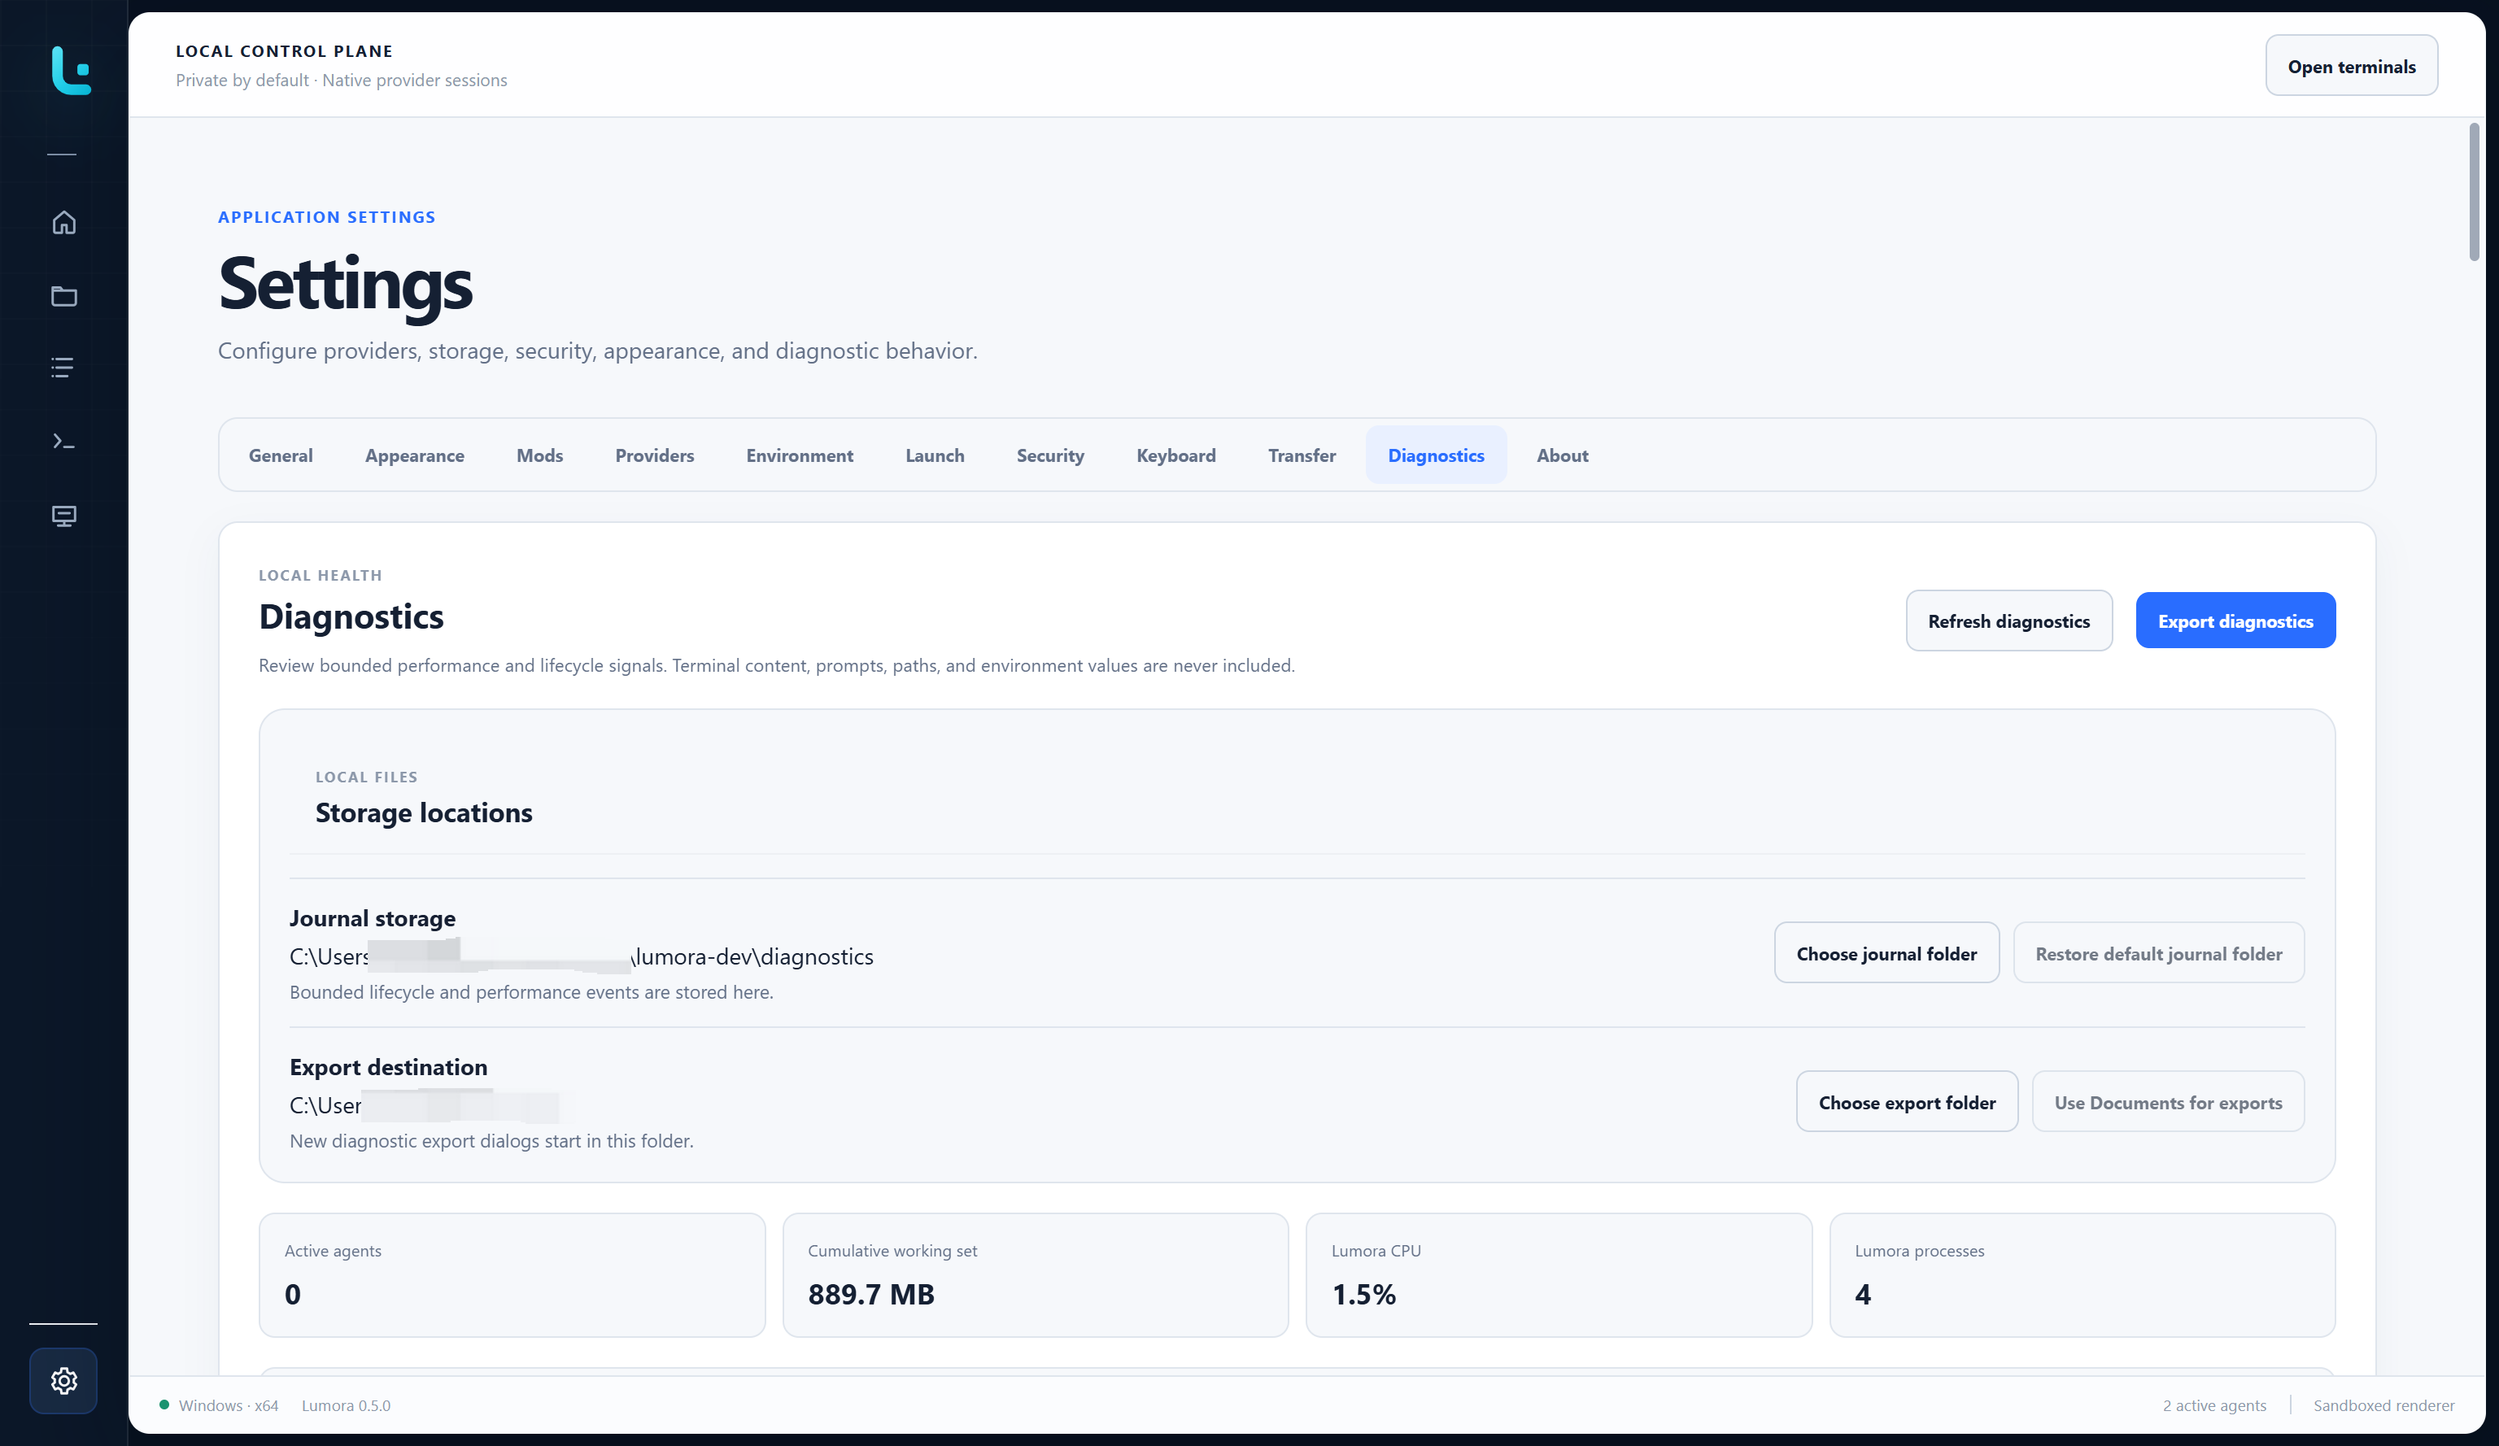
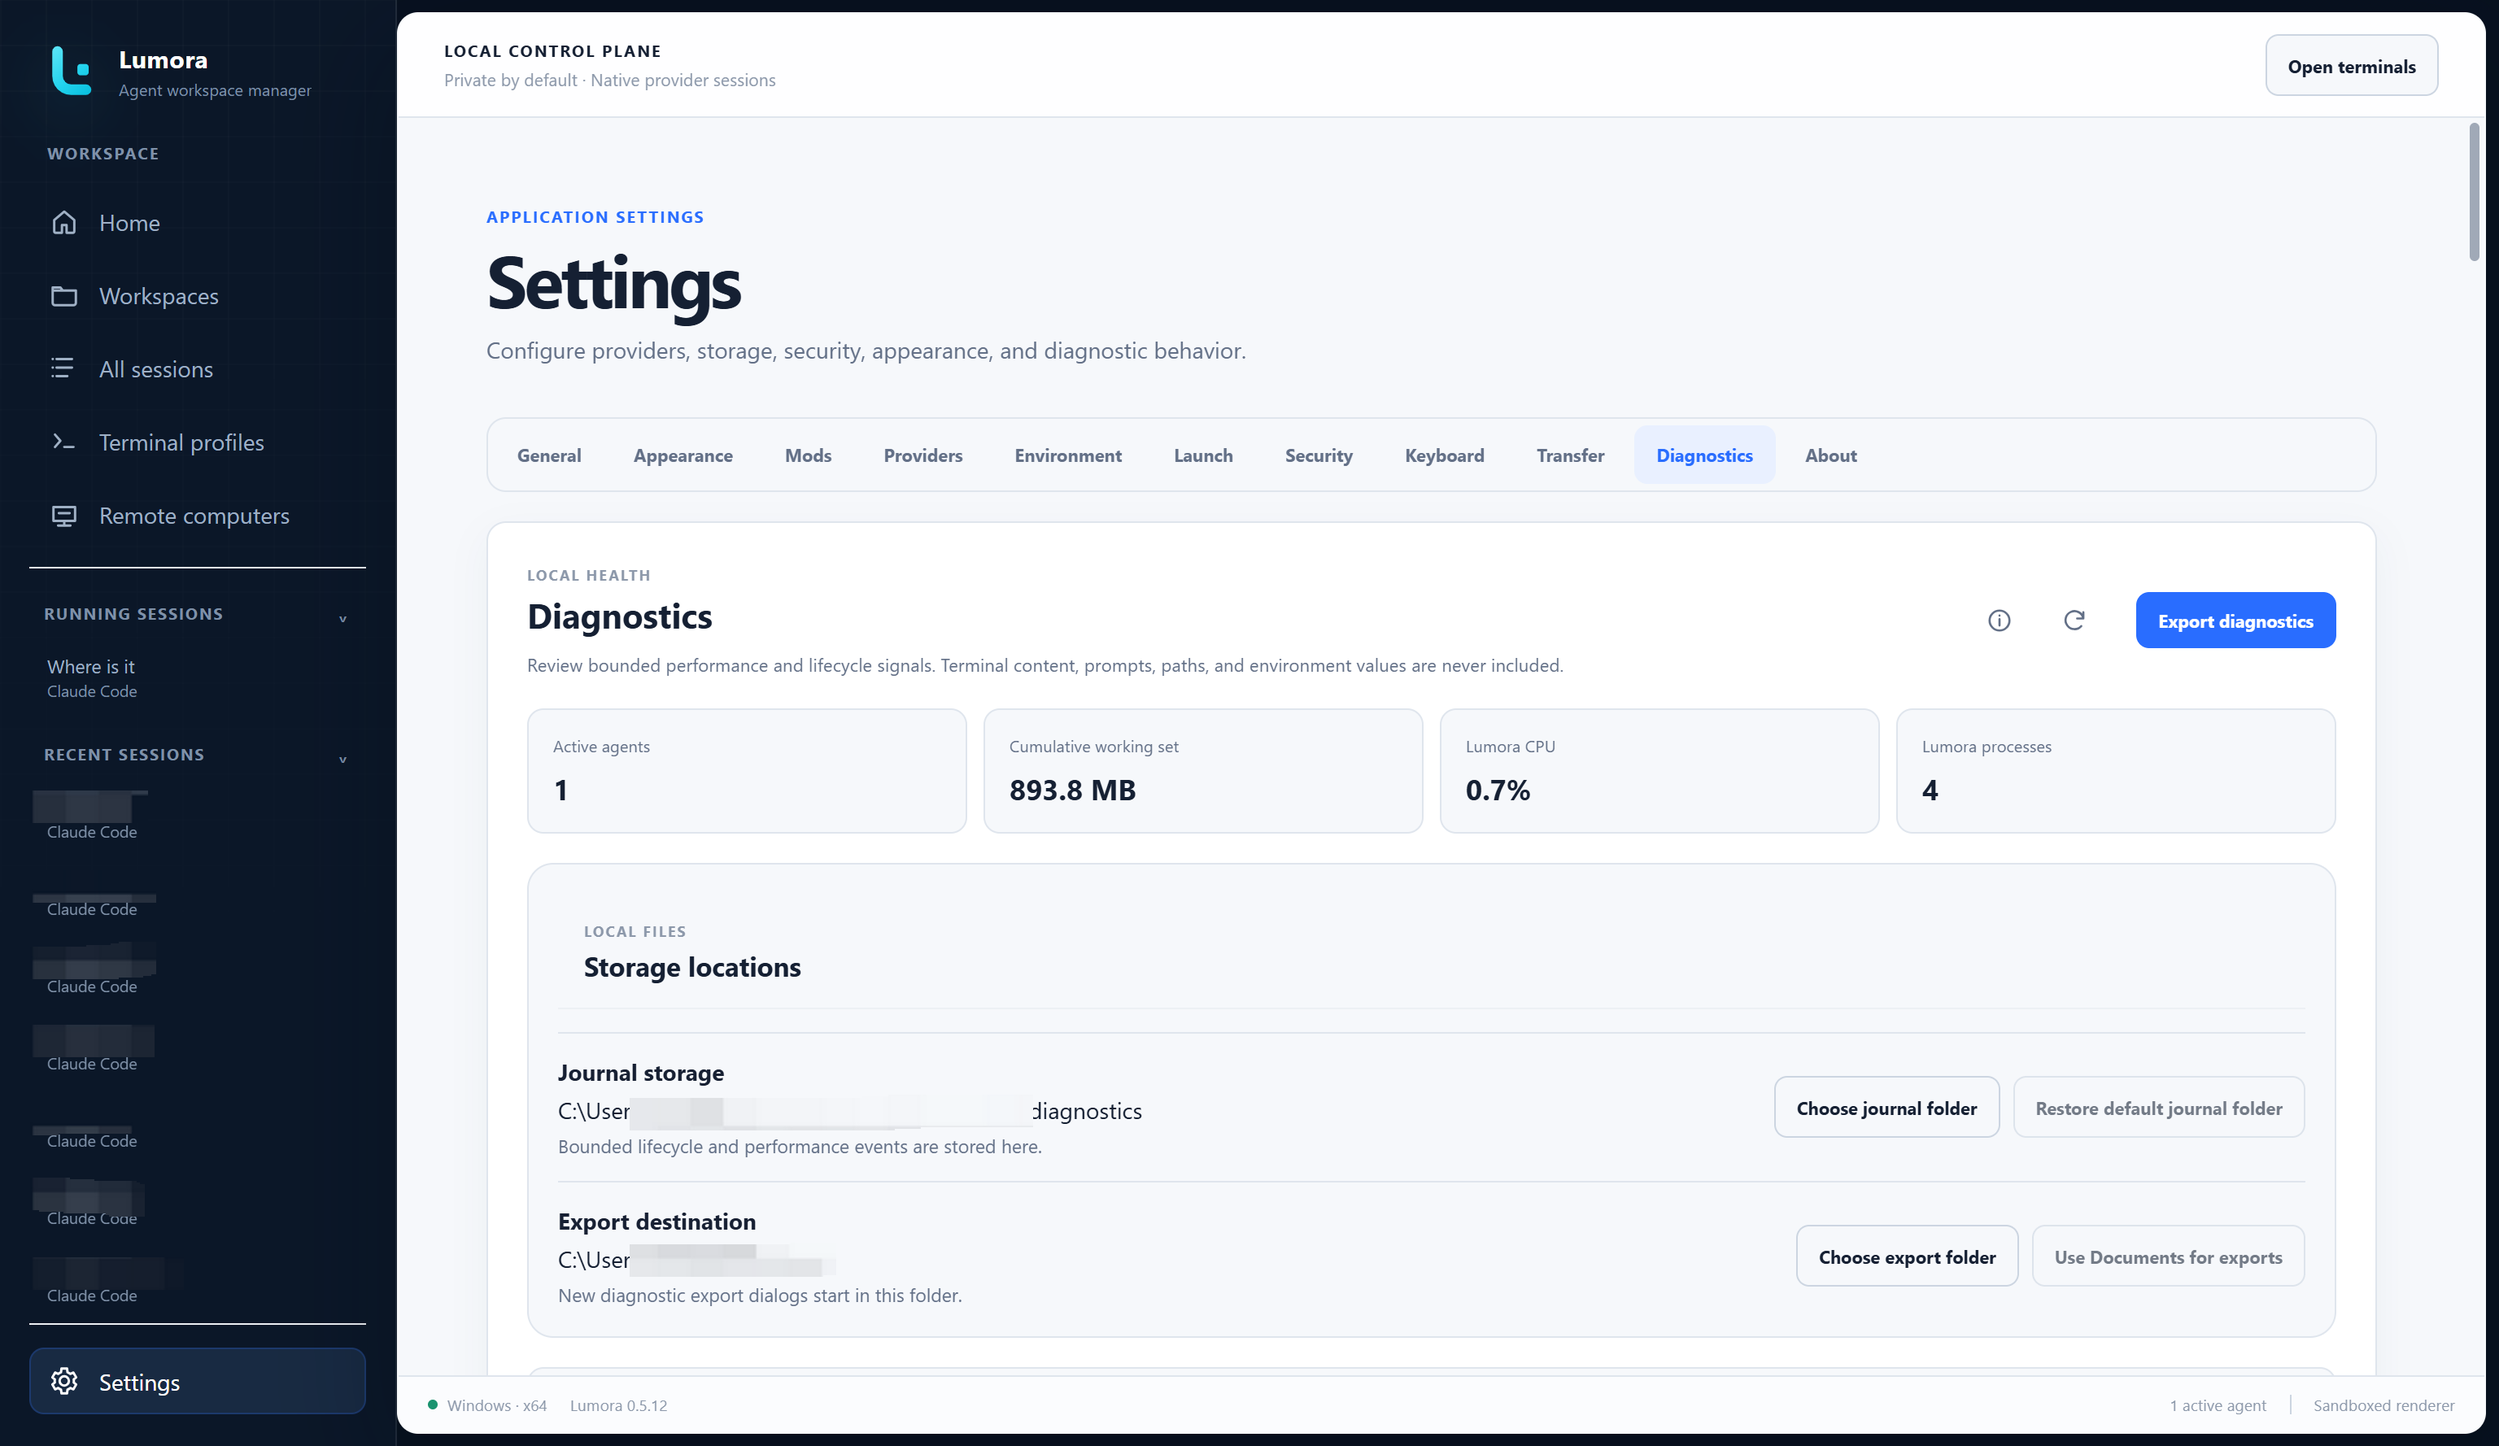
docs: show live diagnostics and process details in the settings guide

diff --git a/docs/SETTINGS.md b/docs/SETTINGS.md
@@ -193,18 +193,26 @@ them, and 100% CPU is one full core. The figures update every two seconds while
 the page is open and pause while the window is hidden. CPU shows
 **Measuring…** until Lumora has a reading from the last few seconds.
 
+<p align="center">
+  <img src="screenshots/0.5/settings/settings_diagnostics.png" alt="Lumora Diagnostics settings with live process metrics above journal storage and export controls" width="1100">
+</p>
+
 **Process details**, the information button beside refresh, opens a live list
 of every Lumora process and every running agent in a window that keeps its size
-as the figures change and scrolls instead. Lumora's own processes
-include its window, graphics, and service processes, and anything else it
-started, such as its helper. Each agent is listed with
-the process Lumora started for it and everything that process started, so the
-commands an agent runs count toward that agent. Each process shows its PID,
-memory, and CPU. An agent on a remote computer does not appear, because its
-processes run there.
+as the figures change and scrolls instead. Lumora's own processes include its
+window, graphics, and service processes, and anything else it started, such as
+its helper. Each agent is listed with the process Lumora started for it and
+everything that process started, so the commands an agent runs count toward
+that agent. Each process shows its PID, memory, and CPU. An agent on a remote
+computer does not appear, because its processes run there.
+
+Lumora's total in this list can be higher than the page's figures. The page
+counts only Lumora's app processes, while the list also counts the other
+processes Lumora started, such as the helper that reads these details, and the
+two take their readings at different moments.
 
 <p align="center">
-  <img src="screenshots/0.5/settings/settings_diagnostics.png" alt="Lumora Diagnostics settings with process metrics, journal controls, and export" width="1100">
+  <img src="screenshots/0.5/settings/settings_diagnostics_details.png" alt="Lumora Diagnostics process details listing Lumora and agent processes with PID, memory, and CPU" width="1100">
 </p>
 
 The bounded journal excludes prompts, terminal output, session content,
